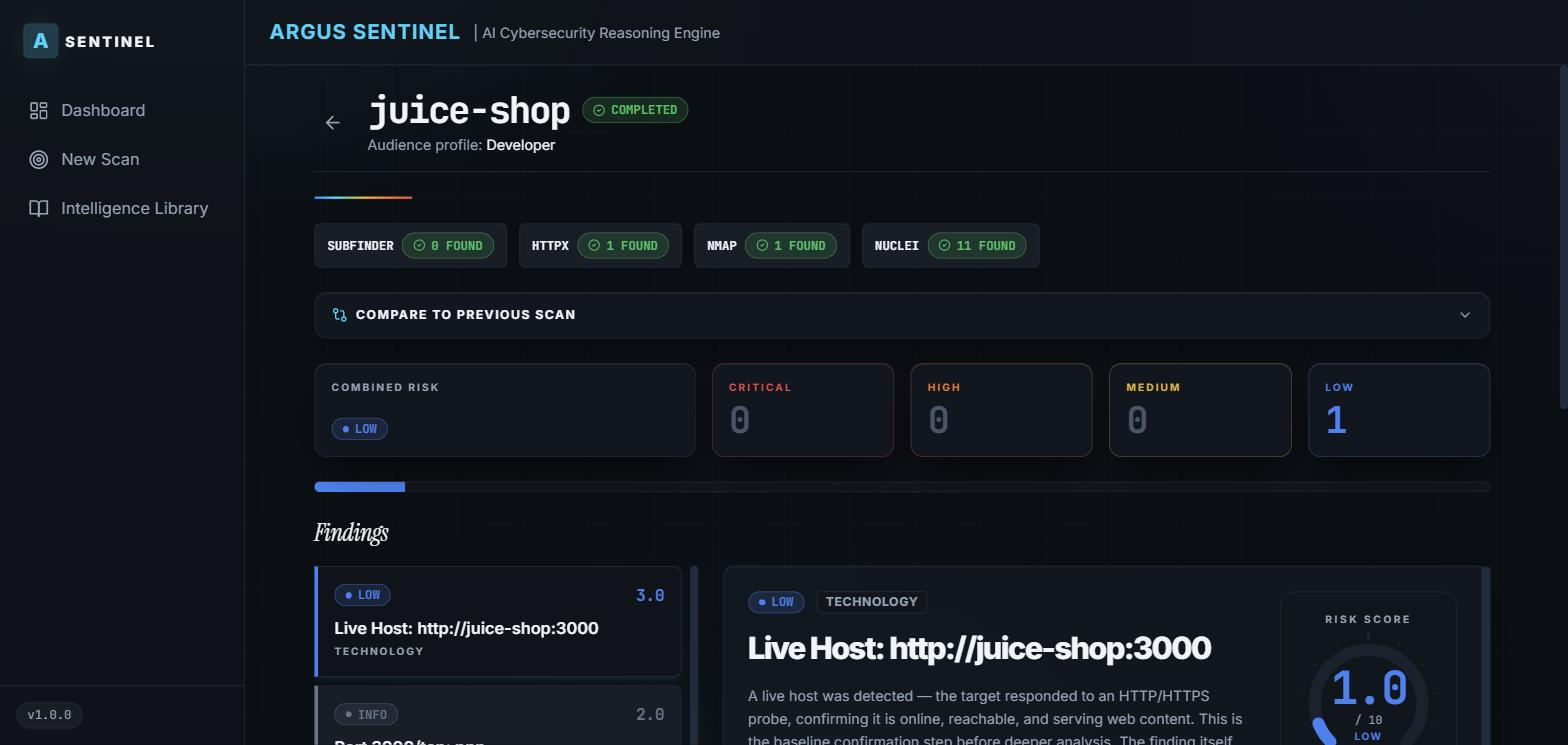
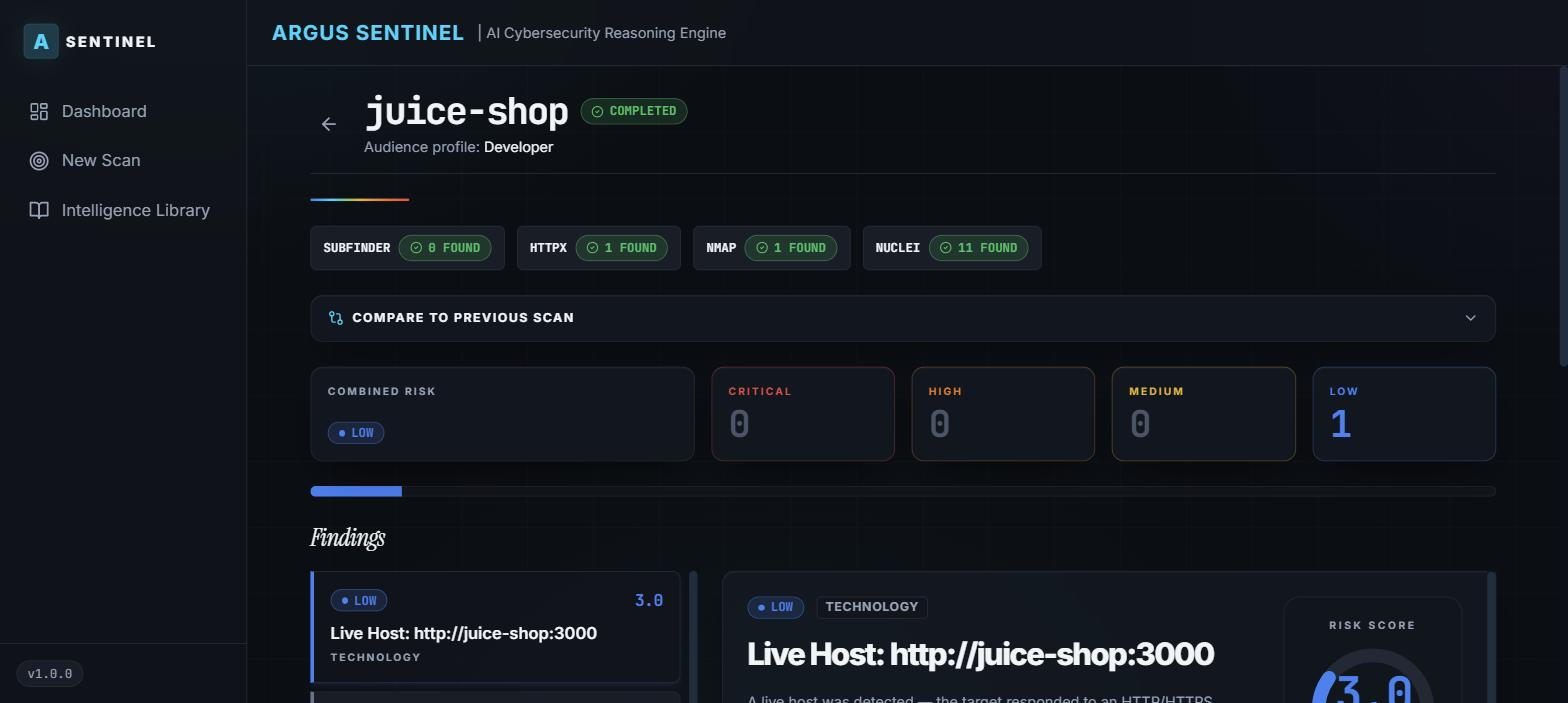
docs: README as evidence — real scan GIF, diff and persona screenshots
- Replace stale hero (old tick-ring gauge, mid-animation) with a fresh capture
- Add See It Run: recorded juice-shop scan flow, real NEW/RESOLVED/CHANGED
  diff, same finding under Student vs Pentester personas
- Drop the dead "Try it live" placeholder; Quick Start is the primary path
- Call out scan-history diffing, dashboard, hardening in the feature list
- Test counts 119/17 -> 123/21 (README + CONTRIBUTING)

fix: persona tabs no longer submit the New Scan form

AudienceSelector buttons had no type, so inside NewScan's <form> they
defaulted to submit and picking a persona launched the scan. Adds a
regression test.

diff --git a/frontend/src/pages/NewScan.test.jsx b/frontend/src/pages/NewScan.test.jsx
@@ -64,4 +64,14 @@ describe('NewScan in self-hosted (non-demo) mode', () => {
     // target tablist specifically rather than asserting no tabs at all.
     expect(screen.queryByRole('tablist', { name: /demo target/i })).toBeNull();
   });
+
+  it('picking a persona does not submit the form', async () => {
+    client.post.mockClear();
+    await renderNewScan();
+
+    fireEvent.change(screen.getByPlaceholderText(/example\.com/i), { target: { value: 'juice-shop' } });
+    fireEvent.click(screen.getByRole('tab', { name: /pentester/i }));
+
+    expect(client.post).not.toHaveBeenCalled();
+  });
 });

diff --git a/frontend/src/components/AudienceSelector.jsx b/frontend/src/components/AudienceSelector.jsx
@@ -16,6 +16,7 @@ export default function AudienceSelector({ selected, onChange }) {
       {AUDIENCES.map((aud) => (
         <button
           key={aud.id}
+          type="button"
           role="tab"
           aria-selected={selected === aud.id}
           onClick={() => onChange(aud.id)}

diff --git a/README.md b/README.md
@@ -21,10 +21,12 @@ Argus Sentinel is a self-hosted web recon tool: point it at a target and it runs
 ## What It Does
 
 - **Real sequential recon pipeline** — subfinder discovers subdomains, httpx confirms which are actually live and fingerprints their technology, and nmap/nuclei then only scan what httpx confirmed live — not four tools fired blind and independently.
+- **Scan-history diffing** — rerun a target and every scan is compared against a previous one: what's **NEW**, what's **RESOLVED**, and what **CHANGED** (old and new risk score side by side). Pick any earlier scan of the same target to compare against.
 - **Correlation & reasoning scoring engine** — every finding ships with a `reasoning_breakdown`: a base score plus labeled modifiers (internet-facing, no authentication, outdated version, admin panel exposed, and more), so you see *why* a score is what it is, not just a severity label.
 - **Audience-specific guidance** — the same finding reads differently for a Student, Developer, Bug Bounty Hunter, Pentester, or Security Professional; pick who's reading and the guidance adapts.
-- **Scan-history diffing** — every scan is automatically compared against the one before it: what's NEW, what's RESOLVED, and what CHANGED (with the old and new risk score shown side by side).
-- **51-entry intelligence library** — a real, verified JSON knowledge base (25 services, 12 technologies, 14 vulnerability classes) the scoring engines actually read from at scan time, not a hardcoded table buried in the scoring code.
+- **51-entry intelligence library** — a real, verified JSON knowledge base (25 services, 12 technologies, 14 vulnerability classes) the scoring engines actually read from at scan time, and browsable directly in the UI.
+- **Dashboard** — severity distribution, finding-type breakdown, and scan history across every target you've scanned.
+- **Hardened by default** — API-key auth, SSRF target validation, rate-limited scan creation, restricted CORS, no DB/Redis ports exposed. An optional demo mode locks scanning to two authorized targets and prunes demo scans after 24h (see [DEMO_DEPLOYMENT.md](DEMO_DEPLOYMENT.md)).
 
 ## Quick Start
 
@@ -55,15 +57,28 @@ curl -X POST http://localhost:8000/api/v1/scans/ \
 
 `db` and `redis` are not exposed to the host — only `api` (8000), `frontend` (5173), and the `juice-shop` target container (3000) publish ports.
 
-<!--
-  Placeholder, consistent with how the landing page (frontend/src/pages/
-  landing/data.js — PLACEHOLDER_DEMO_URL) already handles this: no public
-  demo deployment exists yet, see DEMO_DEPLOYMENT.md for how to stand one
-  up. Update both places once a real deployment exists.
--->
-**Try it live:** no public demo is deployed yet — `https://demo.argus-sentinel.dev` is a placeholder, not a working link. Until then, Quick Start above is the fastest path to real output.
+The two commands above (`scripts/setup.sh`, then `docker compose up`) are how you see Argus Sentinel running — it's self-hosted by design, so there's no hosted instance to visit. Everything below is captured from a real local stack.
 
----
+## See It Run
+
+A real scan, recorded end to end: target submitted, the pipeline runs, and the finished Scan Detail page comes back with per-tool results and scored findings. (Per-tool `stage_status` is written when the pipeline finishes, so the stage pills appear on completion rather than ticking over one by one.)
+
+![Recording of submitting a juice-shop scan, the in-progress view, and the completed Scan Detail page](docs/screenshots/scan-flow.gif)
+
+### Scan-history diffing
+
+Two real scans of `scanme.nmap.org`, compared: two ports/checks that newly appeared, five that were resolved, and two whose risk score changed between runs (`0.0 → 2.0`).
+
+![Scan comparison view showing 2 new, 5 resolved, and 2 changed findings between two real scans of scanme.nmap.org](docs/screenshots/scan-diff.jpg)
+
+### Why this risk score + audience-specific guidance
+
+The same real finding (SSH on `scanme.nmap.org`, 7.0 HIGH) with its score breakdown, viewed as a **Student** (left) and as a **Pentester** (right) — the score and evidence stay fixed, the guidance changes for who's reading.
+
+<p>
+  <img src="docs/screenshots/persona-student.jpg" width="49%" alt="Finding Detail for SSH on port 22 with the Student persona selected: a plain-language explanation">
+  <img src="docs/screenshots/persona-pentester.jpg" width="49%" alt="The same finding with the Pentester persona selected: offensive testing guidance">
+</p>
 
 ## Why Self-Hosted, Not a Hosted Service
 
@@ -152,11 +167,11 @@ subfinder correctly reports 0 real subdomains for `juice-shop` (it isn't a real 
 ## Testing
 
 ```bash
-cd backend && pytest        # 119 tests
-cd frontend && npm test     # vitest, 17 tests
+cd backend && pytest        # 123 tests
+cd frontend && npm test     # vitest, 21 tests
 ```
 
-The backend suite includes pure-Python unit tests for the scoring engines, scanner argv/output-parsing logic, and the intelligence-library schema validator, plus a real Postgres-backed integration suite (`test_routes.py`, `test_scan_tasks.py`) that spins up a throwaway Postgres container via Docker and exercises actual API routes and task orchestration end-to-end — those tests skip automatically if Docker isn't reachable (e.g. running the suite from inside a container itself with no Docker-in-Docker access) rather than silently passing on mocked data. The frontend suite covers `ScanDetail`'s polling logic (`nextPollDelay`), the scan-diff comparison view, and the reasoning-breakdown score math directly.
+The backend suite includes pure-Python unit tests for the scoring engines, scanner argv/output-parsing logic, and the intelligence-library schema validator, plus a real Postgres-backed integration suite (`test_routes.py`, `test_scan_tasks.py`) that spins up a throwaway Postgres container via Docker and exercises actual API routes and task orchestration end-to-end — those tests skip automatically if Docker isn't reachable (e.g. running the suite from inside a container itself with no Docker-in-Docker access) rather than silently passing on mocked data. The frontend suite covers `ScanDetail`'s polling logic (`nextPollDelay`), the scan-diff comparison view, the reasoning-breakdown score math, and the New Scan form (demo-mode target lock, persona selection).
 
 ## Known Limitations
 

diff --git a/CONTRIBUTING.md b/CONTRIBUTING.md
@@ -35,8 +35,8 @@ If you want to iterate on the backend outside Docker (faster reload than rebuild
 ## Running Tests
 
 ```bash
-cd backend && pytest        # 119 tests
-cd frontend && npm test     # vitest, 17 tests
+cd backend && pytest        # 123 tests
+cd frontend && npm test     # vitest, 21 tests
 ```
 
 The backend suite includes pure-Python unit tests (scoring engines, scanner argv/output-parsing, the intelligence-library schema validator) that need nothing beyond `pip install -r requirements.txt`, plus a real Postgres-backed integration suite (`test_routes.py`, `test_scan_tasks.py`) that spins up a throwaway Postgres container via Docker itself — so **Docker needs to be running and reachable** for the full suite to pass, not just for `docker compose up`. Those specific tests skip automatically (rather than failing) if Docker isn't reachable — for example, if you run `pytest` from inside the `api` container itself, which has no Docker-in-Docker access. Run it on your host, with Docker running, to get the full suite rather than a partial one.
